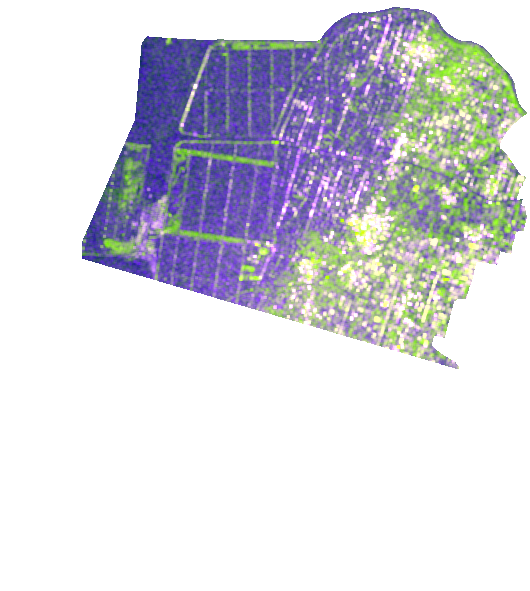
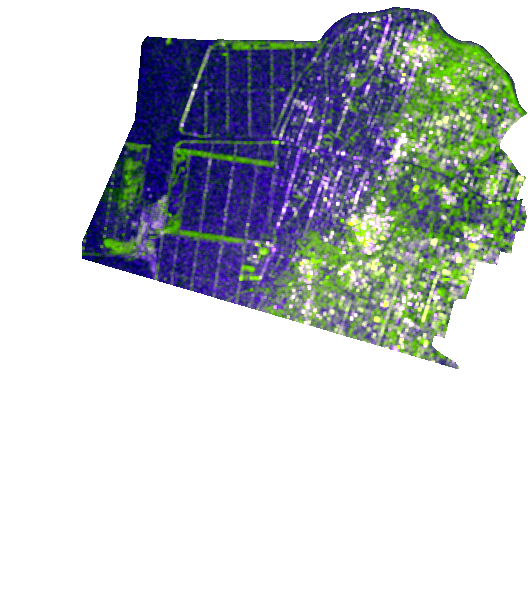
Add the 10/26 NISAR ascending pass, which covers all of Taixi
The 10/28 descending pass missed southern Taixi (its frame 077 is not in
CMR). Track 039 ascending on 10/26 (validated GCOV_V1) covers 100%; only
the Taixi window is read over HTTPS with the user's Earthdata login,
averaged from 10 m to the existing 20 m grid and clipped to the township.
It lives in its own manifest so Investigation Studio's PRE/POST contract
is unchanged.

All NISAR layers are now stretched per scene (p02-p98 inside Taixi):
with shared fixed ranges, the processing-version and orbit offsets
(e.g. HH ~5 dB lower on 10/26) painted whole scenes green as if the land
had changed.

diff --git a/frontend/src/data/champi.ts b/frontend/src/data/champi.ts
@@ -9,6 +9,7 @@ import comparison from '../../public/studio/field_comparison.json';
 import fieldsGeojson from '../../public/studio/fields.geojson?raw';
 import townshipsGeojson from '../../public/studio/townships.geojson?raw';
 import nisarMap from '../../public/studio/nisar_map_manifest.json';
+import nisarAscending from '../../public/studio/nisar_ascending_manifest.json';
 import official from '../../public/studio/official_loss_record.json';
 import yunlinArea from '../../public/studio/yunlin_area_estimate.json';
 import investigation from '../../public/studio/recorded_investigation.json';
@@ -242,21 +243,33 @@ export const TOWNSHIPS: { name: Text; geometry: FieldGeometry }[] = (
   JSON.parse(townshipsGeojson) as { features: { properties: { name_zh: string; name_en: string }; geometry: FieldGeometry }[] }
 ).features.map((f) => ({ name: { zh: f.properties.name_zh, en: f.properties.name_en }, geometry: f.geometry }));
 
-/** Two separate NISAR scenes over Taixi, drawn as dual-pol false colour; never subtracted (processing versions differ). */
+type NisarScene = {
+  period: string;
+  acquisition_start_utc: string;
+  crid: string;
+  product_maturity: string;
+  coordinates: number[][];
+  layers: { HH?: { image: string }; HV?: { image: string }; RGB: { image: string } };
+};
+const studio = (file: string) => `${import.meta.env.BASE_URL}studio/${file}`;
+const nisarScene = (s: NisarScene) => ({
+  period: s.period as 'PRE' | 'POST' | 'POST_ASC',
+  date: s.acquisition_start_utc.slice(0, 10),
+  crid: s.crid,
+  maturity: s.product_maturity,
+  corners: s.coordinates as LngLat[],
+  image: { HH: studio(s.layers.HH?.image ?? ''), HV: studio(s.layers.HV?.image ?? ''), RGB: studio(s.layers.RGB.image) },
+});
+
+/**
+ * NISAR passes over Taixi, drawn as dual-pol false colour, each stretched on its own; never subtracted
+ * (processing versions and orbits differ). `scenes` are the 10/16 and 10/28 descending passes on one
+ * track; `ascending` is the 10/26 pass on another track, which covers the south the 10/28 pass missed.
+ */
 export const NISAR_TAIXI = {
   crossVersionVerified: nisarMap.cross_crid_radiometric_equivalence_verified,
-  scenes: nisarMap.scenes.map((s) => ({
-    period: s.period as 'PRE' | 'POST',
-    date: s.acquisition_start_utc.slice(0, 10),
-    crid: s.crid,
-    maturity: s.product_maturity,
-    corners: s.coordinates as LngLat[],
-    image: {
-      HH: `${import.meta.env.BASE_URL}studio/${s.layers.HH.image}`,
-      HV: `${import.meta.env.BASE_URL}studio/${s.layers.HV.image}`,
-      RGB: `${import.meta.env.BASE_URL}studio/${s.layers.RGB.image}`,
-    },
-  })),
+  scenes: (nisarMap.scenes as NisarScene[]).map(nisarScene),
+  ascending: nisarScene(nisarAscending.scene as NisarScene),
 };
 
 export const OFFICIAL_LOSS = {

diff --git a/frontend/src/screens/MapScreen.tsx b/frontend/src/screens/MapScreen.tsx
@@ -141,7 +141,7 @@ function DamageMap({
   const [filter, setFilter] = useState<Filter>('all');
   const [query, setQuery] = useState('');
   // The post-typhoon NISAR pass only reached the northern part of Taixi, so the complete pre pass is shown first.
-  const [layers, setLayers] = useState({ trend: true, pre: true, post: false, town: true, bnd: true, landuse: false });
+  const [layers, setLayers] = useState({ trend: true, pre: true, asc: false, post: false, town: true, bnd: true, landuse: false });
   const landuse = useLanduse(layers.landuse);
   const [sheetRef, sheet] = useElementSize<HTMLDivElement>();
   const [zoom, setZoom] = useState(1);
@@ -171,6 +171,7 @@ function DamageMap({
 
   const sheetClass = ['sheet', !layers.trend && 'map-hide-dmg', !layers.bnd && 'map-hide-bnd'].filter(Boolean).join(' ');
   const [pre, post] = NISAR_TAIXI.scenes;
+  const asc = NISAR_TAIXI.ascending;
   const gridLngs: number[] = [];
   for (let lng = Math.ceil(PROJ.west * 100) / 100; lng < PROJ.east; lng += 0.01) gridLngs.push(lng);
   const gridLats: number[] = [];
@@ -181,7 +182,7 @@ function DamageMap({
     <>
       <div className={sheetClass} ref={sheetRef}>
         <svg className="map" viewBox={`${vx} ${vy} ${vw} ${vh}`} preserveAspectRatio="xMidYMid meet" style={{ overflow: 'visible' }} aria-label={t('候選田區地圖', 'Candidate field map')}>
-          {([['pre', pre], ['post', post]] as const).map(
+          {([['pre', pre], ['asc', asc], ['post', post]] as const).map(
             ([key, scene]) =>
               layers[key] && (
                 <image key={key} href={scene.image.RGB} {...sceneRect(scene.corners)} preserveAspectRatio="none" opacity={0.9} style={{ imageRendering: 'pixelated' }} />
@@ -275,6 +276,7 @@ function DamageMap({
             [
               ['trend', t('VH 變化（田區著色）', 'VH change (field colour)')],
               ['pre', `NISAR ${t('颱風前', 'pre')} ${md(pre.date)}`],
+              ['asc', `NISAR ${t('颱風後', 'post')} ${md(asc.date)}`],
               ['post', `NISAR ${t('颱風後', 'post')} ${md(post.date)}`],
               ['town', t('鄉鎮界線', 'Township boundaries')],
               ['bnd', t('田區邊界', 'Field boundaries')],

diff --git a/frontend/src/__tests__/App.test.tsx b/frontend/src/__tests__/App.test.tsx
@@ -255,7 +255,12 @@ describe('App', () => {
     render(<App />);
     const map = openChampiMap();
     expect(within(map).getByRole('checkbox', { name: /NISAR 颱風前/ })).toBeChecked();
-    const post = within(map).getByRole('checkbox', { name: /NISAR 颱風後/ });
+    const asc = within(map).getByRole('checkbox', { name: 'NISAR 颱風後 10/26' });
+    expect(asc).not.toBeChecked();
+    fireEvent.click(asc);
+    expect(map.querySelector('svg.map image[href*="nisar_post_asc_rgb_map.png"]')).not.toBeNull();
+    fireEvent.click(asc);
+    const post = within(map).getByRole('checkbox', { name: 'NISAR 颱風後 10/28' });
     expect(post).not.toBeChecked();
     expect([...map.querySelectorAll('svg.map image')].map((i) => i.getAttribute('href'))).toEqual([expect.stringContaining('nisar_pre_rgb_map.png')]);
     fireEvent.click(post);

diff --git a/scripts/render_nisar_map.py b/scripts/render_nisar_map.py
@@ -1,10 +1,13 @@
 """Render the Taixi NISAR map layers as dual-pol false colour (R = HH, G = HV, B = HH - HV).
 
-Display only: each scene is drawn on its own, and the two dates are never subtracted (their
-processing versions differ). The window and the township clip are taken from the existing
+Display only: each scene is drawn and stretched on its own, and dates are never subtracted (their
+processing versions and orbits differ). The window and the township clip are taken from the existing
 single-band map images, so the new layers sit exactly where the old ones did.
 
 Usage: python scripts/render_nisar_map.py <pre.h5> <post.h5>
+       python scripts/render_nisar_map.py --add <granule https URL> <PERIOD> <scene_id>
+         Reads only the Taixi window of a remote GCOV file (Earthdata login from ~/.netrc), puts it
+         on the same 20 m grid as the existing scenes and writes nisar_ascending_manifest.json.
 """
 from __future__ import annotations
 
@@ -21,8 +24,10 @@ from scipy.ndimage import uniform_filter
 ROOT = Path(__file__).resolve().parents[1]
 STUDIO = ROOT / 'frontend/public/studio'
 GRID = 'science/LSAR/GCOV/grids/frequencyA'
-# Fixed ranges (dB) so both dates use the same colours.
-STRETCH = {'HH': (-16.0, 2.0), 'HV': (-25.0, -10.0), 'HH-HV': (3.0, 15.0)}
+# Each scene is stretched to its own 2nd-98th percentiles inside Taixi. Passes from different processing
+# versions and orbit directions are offset in brightness, so shared fixed ranges would paint that offset
+# as if the land had changed.
+PERCENTILES = (2, 98)
 SMOOTH_PX = 3  # 3 x 3 mean on linear power to calm speckle (60 m)
 
 
@@ -36,6 +41,14 @@ def _window(h5: h5py.File, corners: list[list[float]], shape: tuple[int, int]) -
     return slice(row, row + shape[0]), slice(col, col + shape[1])
 
 
+def _block_mean(power: np.ndarray, valid: np.ndarray, factor: int) -> np.ndarray:
+    h, w = power.shape[0] // factor, power.shape[1] // factor
+    p = np.where(valid, power, 0.0)[: h * factor, : w * factor].reshape(h, factor, w, factor).sum(axis=(1, 3))
+    n = valid[: h * factor, : w * factor].reshape(h, factor, w, factor).sum(axis=(1, 3))
+    with np.errstate(invalid='ignore', divide='ignore'):
+        return np.where(n == factor * factor, p / n, np.nan)
+
+
 def _db(power: np.ndarray) -> np.ndarray:
     valid = np.isfinite(power) & (power > 0)
     filled = np.where(valid, power, 0.0)
@@ -45,9 +58,16 @@ def _db(power: np.ndarray) -> np.ndarray:
         return np.where(valid, 10 * np.log10(mean), np.nan)
 
 
-def _scale(values: np.ndarray, key: str) -> np.ndarray:
-    lo, hi = STRETCH[key]
+def _scale(values: np.ndarray, lo: float, hi: float) -> np.ndarray:
     return (np.nan_to_num(np.clip((values - lo) / (hi - lo), 0, 1)) * 255).astype(np.uint8)
+
+
+def _rgba(hh: np.ndarray, hv: np.ndarray, keep: np.ndarray) -> tuple[np.ndarray, dict]:
+    shown = keep & np.isfinite(hh) & np.isfinite(hv)
+    channels = {'HH': hh, 'HV': hv, 'HH-HV': hh - hv}
+    stretch = {k: [round(float(v), 2) for v in np.percentile(c[shown], PERCENTILES)] for k, c in channels.items()}
+    rgb = np.dstack([_scale(channels[k], *stretch[k]) for k in ('HH', 'HV', 'HH-HV')])
+    return np.dstack([rgb, np.where(shown, 255, 0).astype(np.uint8)]), stretch
 
 
 def render(h5_path: str, scene: dict) -> tuple[str, float]:
@@ -61,11 +81,10 @@ def render(h5_path: str, scene: dict) -> tuple[str, float]:
     lum = old[..., :3].astype(float).mean(axis=2)
     both = keep & np.isfinite(hv)
     corr = float(np.corrcoef(lum[both], hv[both])[0, 1])
-    rgb = np.dstack([_scale(hh, 'HH'), _scale(hv, 'HV'), _scale(hh - hv, 'HH-HV')])
-    alpha = np.where(keep & np.isfinite(hh) & np.isfinite(hv), 255, 0).astype(np.uint8)
     name = f"nisar_{scene['period'].lower()}_rgb_map.png"
-    Image.fromarray(np.dstack([rgb, alpha]), 'RGBA').save(STUDIO / name, optimize=True)
-    return name, corr
+    image, stretch = _rgba(hh, hv, keep)
+    Image.fromarray(image, 'RGBA').save(STUDIO / name, optimize=True)
+    return name, corr, stretch
 
 
 def main(pre_h5: str, post_h5: str) -> None:
@@ -74,17 +93,83 @@ def main(pre_h5: str, post_h5: str) -> None:
     for scene, h5_path in zip(manifest['scenes'], (pre_h5, post_h5)):
         if scene['scene_id'] not in h5_path:
             raise ValueError(f"{h5_path} is not {scene['scene_id']}")
-        name, corr = render(h5_path, scene)
+        name, corr, stretch = render(h5_path, scene)
         if corr < 0.8:
             raise ValueError(f'{name} does not line up with the existing layer (r={corr:.2f})')
-        scene['layers']['RGB'] = {'image': name, 'composite': 'R=HH G=HV B=HH-HV', 'display_stretch_db': STRETCH,
+        scene['layers']['RGB'] = {'image': name, 'composite': 'R=HH G=HV B=HH-HV', 'display_stretch_db': stretch,
                                   'smoothing': f'{SMOOTH_PX}x{SMOOTH_PX} mean on linear power', 'alignment_r': round(corr, 3)}
         print(name, 'r =', round(corr, 3))
-    manifest['display_method'] = ('Dual-pol false colour per scene (R=HH, G=HV, B=HH-HV) with fixed dB ranges and a 3x3 speckle '
-                                  'mean; transparent outside the township and where a scene has no valid pixels; '
-                                  'not a quantitative cross-date comparison')
+    manifest['display_method'] = ('Dual-pol false colour (R=HH, G=HV, B=HH-HV), each scene stretched to its own p02-p98 inside '
+                                  'Taixi, 3x3 speckle mean; transparent outside the township and where a scene has no valid '
+                                  'pixels; colours are not comparable across dates')
     path.write_text(json.dumps(manifest, ensure_ascii=False, indent=2) + '\n', encoding='utf-8')
 
 
+def add_remote(url: str, period: str, scene_id: str) -> None:
+    """Add another pass (e.g. a different track) on the existing PRE grid and township clip."""
+    import netrc
+
+    import fsspec
+    import requests
+
+    path = STUDIO / 'nisar_map_manifest.json'
+    manifest = json.loads(path.read_text(encoding='utf-8'))
+    pre = next(s for s in manifest['scenes'] if s['period'] == 'PRE')
+    keep = np.array(Image.open(STUDIO / pre['layers']['HV']['image']).convert('RGBA'))[..., 3] > 0  # Taixi township
+    rows_n, cols_n = pre['grid_shape']
+    to_utm = Transformer.from_crs(4326, 32651, always_xy=True)
+    login, _, password = netrc.netrc().authenticators('urs.earthdata.nasa.gov')
+    token = requests.post('https://urs.earthdata.nasa.gov/api/users/find_or_create_token', auth=(login, password), timeout=30).json()['access_token']
+    fs = fsspec.filesystem('https', headers={'Authorization': f'Bearer {token}'}, block_size=4 * 2**20)
+    with fs.open(url, 'rb') as stream, h5py.File(stream) as h5:
+        g = h5[GRID]
+        x, y = g['xCoordinates'][:], g['yCoordinates'][:]
+        if int(g['projection'][()]) != 32651:
+            raise ValueError('Unexpected CRS')
+        factor = int(round(20 / abs(x[1] - x[0])))
+        # The PRE grid's first pixel centre, from its north-west corner.
+        west, north = to_utm.transform(*pre['coordinates'][0])
+        x0, y0 = round((west - 10) / 20) * 20 + 10, round((north - 10) / 20) * 20 + 10  # PRE centres sit on ...10 m
+        half = 10 - 10 / factor
+        col = int(np.argmin(np.abs(x - (x0 - half))))
+        row = int(np.argmin(np.abs(y - (y0 + half))))
+        if abs(x[col] - (x0 - half)) > 0.01 or abs(y[row] - (y0 + half)) > 0.01:
+            raise ValueError('This grid does not nest inside the PRE grid')
+        sl = (slice(row, row + rows_n * factor), slice(col, col + cols_n * factor))
+        mask = g['mask'][sl]
+        valid = (mask > 0) & (mask < 255)
+        hh = g['HHHH'][sl]; hv = g['HVHV'][sl]
+        valid &= np.isfinite(hh) & (hh > 0) & np.isfinite(hv) & (hv > 0)
+        hh, hv = _block_mean(hh, valid, factor), _block_mean(hv, valid, factor)
+        ident = h5['science/LSAR/identification']
+        start = ident['zeroDopplerStartTime'][()].decode()
+        direction = ident['orbitPassDirection'][()].decode()
+        track = int(ident['trackNumber'][()])
+    hh, hv = _db(hh), _db(hv)
+    name = f'nisar_{period.lower()}_rgb_map.png'
+    image, stretch = _rgba(hh, hv, keep)
+    Image.fromarray(image, 'RGBA').save(STUDIO / name, optimize=True)
+    coverage = float((keep & np.isfinite(hh)).sum() / keep.sum())
+    scene = {
+        'period': period, 'scene_id': scene_id, 'acquisition_start_utc': start, 'crid': scene_id.split('_')[-5],
+        'product_maturity': 'VALIDATED' if 'GCOV_V1' in url else 'PROVISIONAL', 'track': track, 'orbit_direction': direction.upper(),
+        'crs': 'EPSG:32651', 'grid_shape': pre['grid_shape'], 'coordinates': pre['coordinates'],
+        'layers': {'RGB': {'image': name, 'composite': 'R=HH G=HV B=HH-HV', 'display_stretch_db': stretch,
+                           'smoothing': f'{factor}x{factor} block mean to 20 m, then {SMOOTH_PX}x{SMOOTH_PX} mean on linear power',
+                           'township_coverage': round(coverage, 3)}},
+    }
+    # Kept apart from the hash-traced PRE/POST manifest that Investigation Studio validates.
+    extra = STUDIO / 'nisar_ascending_manifest.json'
+    extra.write_text(json.dumps({'case_id': manifest['case_id'],
+                                 'note': ('Another track (ascending 039) that covers the part of Taixi the 10/28 descending pass '
+                                          'missed. Display only; never compared in value with the descending passes.'),
+                                 'display_method': manifest['display_method'], 'scene': scene}, ensure_ascii=False, indent=2) + '\n',
+                     encoding='utf-8')
+    print(name, 'Taixi coverage', round(coverage, 3), start, direction, track)
+
+
 if __name__ == '__main__':
-    main(sys.argv[1], sys.argv[2])
+    if sys.argv[1] == '--add':
+        add_remote(sys.argv[2], sys.argv[3], sys.argv[4])
+    else:
+        main(sys.argv[1], sys.argv[2])
